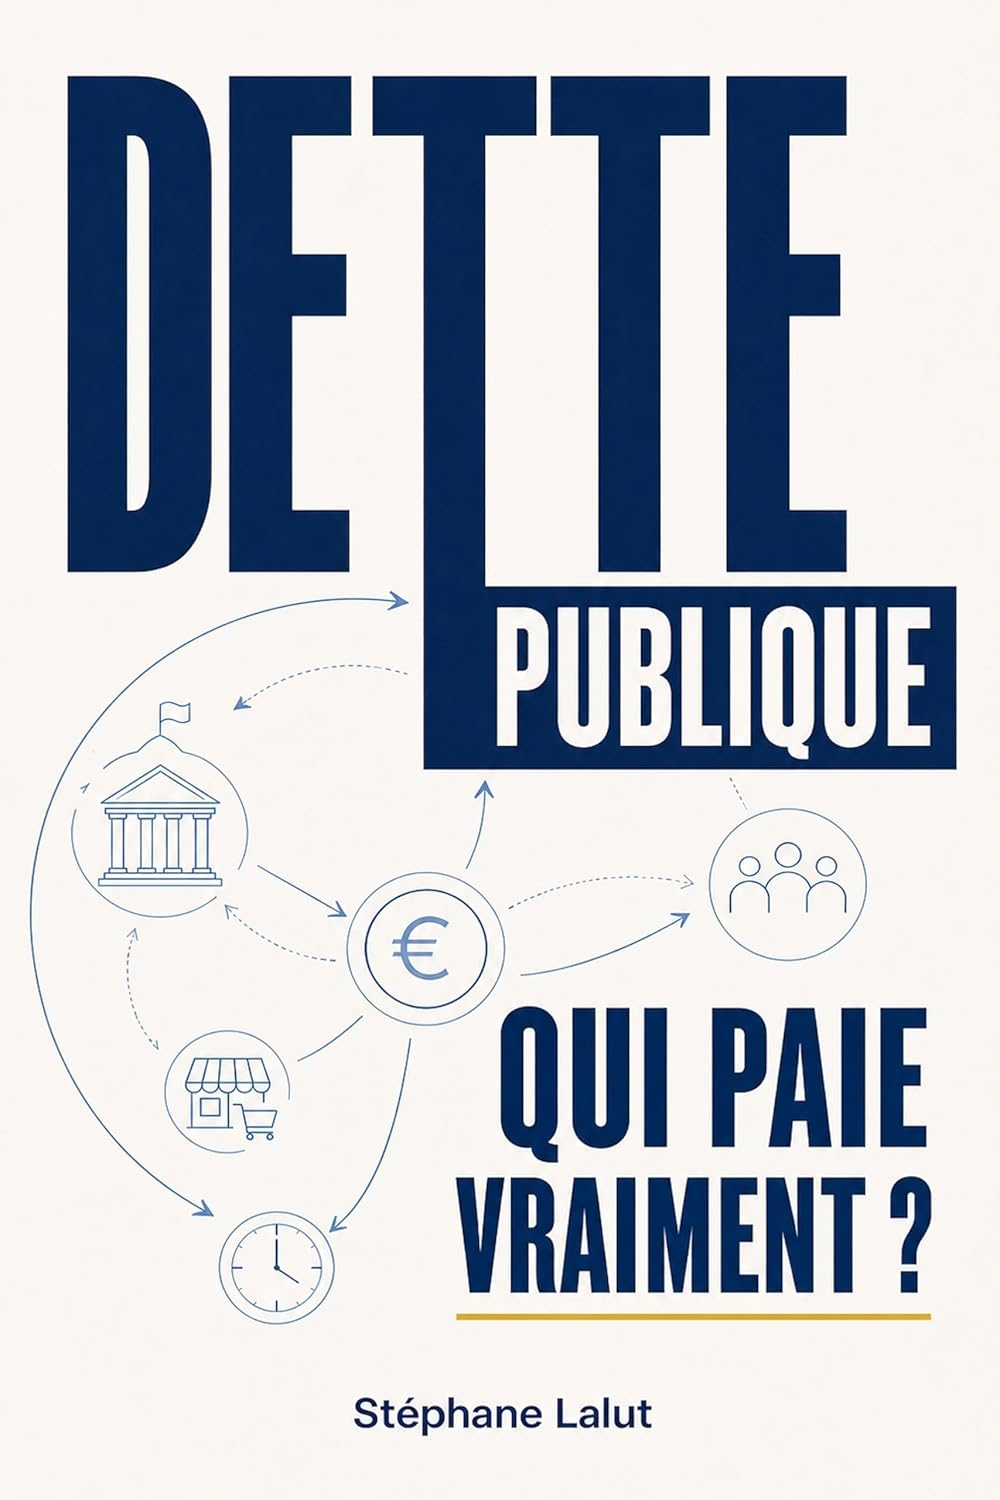
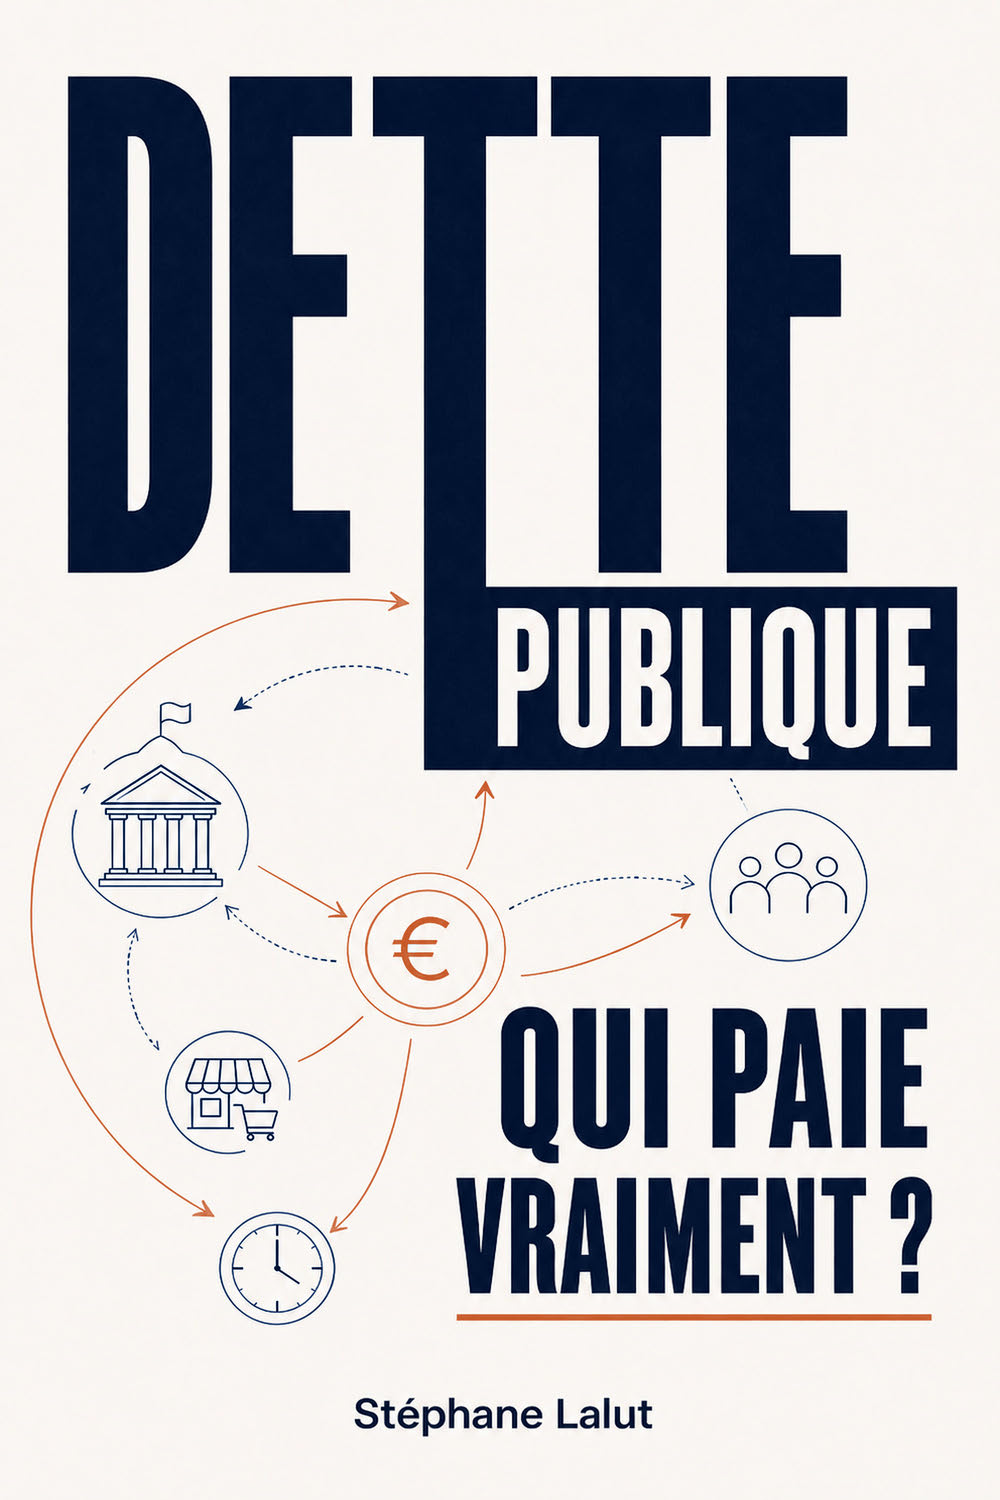
feat(livres): couverture de Dette publique au bleu nuit d'Anthropie -- et le DOI propre de la recension RFSE
Couverture : assets/images/livres/dette-publique-qui-paie-vraiment.jpg = recto KDP
du 16/09 (bleu nuit #011331 mesure sur la couverture Anthropie, accent orange
#C85A2A). Meme cadrage (echelle 0,488, decalage nul, verifie contre l'ancienne
image), memes tables JPEG, progressif, chroma 4:4:4. Build Hugo --minify sans
avertissement ; variantes _hu_ renouvelees.

DOI : check-all --reseau echouait -- Cairn a attribue a la recension seule le DOI
10.3917/rfse.036.0247d (lu a la source Crossref, resout vers la page 247d).
doi_review au registre (v1.19), doi de la fiche, lecture par le sondage. Temoin
par mutation : sans la ligne, l'ecart revient. check-all --reseau : 6/6 OK.

diff --git a/scripts/sondage-noeuds-externes.py b/scripts/sondage-noeuds-externes.py
@@ -67,7 +67,8 @@ def main() -> int:
 
     # 1. Crossref, par auteur (prenom + nom : les homonymes « Lalut » sont ecartes, et dits)
     print("1. Crossref (auteur Stéphane Lalut) -> DOI d'articles au registre")
-    reg_dois = {w["doi"].lower() for w in works if w.get("doi")}
+    # doi_review : DOI propre d'une recension parue dans un bloc a DOI commun (meme logique que wikidata_review)
+    reg_dois = {w[k].lower() for w in works for k in ("doi", "doi_review") if w.get(k)}
     try:
         r = get("https://api.crossref.org/works?" + urllib.parse.urlencode({
             "query.author": "Stéphane Lalut", "rows": 50, "select": "DOI,title,container-title,author"}))

diff --git a/PROJECT_STATUS.md b/PROJECT_STATUS.md
@@ -53,6 +53,23 @@ complète fonctionne sans attendre le prochain push naturel ou le 1er du mois.
 
 ## 0. Log chronologique
 
+### 2026-09-16 — Couverture de *Dette publique* : nouvelle charte ; DOI propre de la recension RFSE
+
+**Couverture.** `assets/images/livres/dette-publique-qui-paie-vraiment.jpg` remplacée par le recto
+KDP du 16/09 (décision auteur) : bleu nuit d'ANTHROPIE `#011331` (mesuré sur sa couverture Kindle)
+et accent orange brûlé `#C85A2A` au lieu du marine et du jaune. Même cadrage que l'ancienne image
+(recto réduit à 1000×1500, vérifié : échelle 0,488, décalage nul), mêmes tables JPEG, progressif ;
+chroma 4:4:4 pour les traits orange fins (92 → 148 Ko). Une seule source sert la fiche, les
+vignettes, le mur auteur et l'image de partage : build local sans erreur, variantes `_hu_`
+renouvelées. Masters et traçabilité : `03_LIVRES\dette-publique\_INDEX.md`.
+
+**DOI.** `check-all --reseau` échouait sur un fait externe nouveau : Cairn a attribué à la recension
+Lemoine seule le DOI `10.3917/rfse.036.0247d` (lu à la source Crossref ; résout vers la page 247d).
+Écrit en retour : `doi_review` au registre (v1.19, même logique que `wikidata_review`), `doi` de la
+fiche, et lecture de `doi_review` par `sondage-noeuds-externes.py` — **témoin par mutation** : sans
+la ligne, l'écart revient ; restauration vérifiée par empreinte. ⏸ Reste externe : l'item de la
+recension seule `Q141072266` n'a toujours pas de DOI sur Wikidata (geste de navette, non fait ici).
+
 ### 2026-09-15 — Relevé post-lancement : l'instrument GEO mesurait faux depuis un mois
 
 Créneau du 15/09 (fiche `T1_SONDES_EN_2026-09-15.md`, ouvert par le déploiement France du 22/07).

diff --git a/content/publications/rfse-lemoine-chasseurs-detats.md b/content/publications/rfse-lemoine-chasseurs-detats.md
@@ -4,7 +4,7 @@ date: 2026-08-04
 revue: "Revue Française de Socio-Économie"
 source_type: "Académique"
 url_externe: "https://shs.cairn.info/revue-francaise-de-socio-economie-2026-1-page-247"
-doi: "10.3917/rfse.036.0247"
+doi: "10.3917/rfse.036.0247d"  # DOI propre de la recension (registre : doi_review) ; le DOI commun du bloc reste au registre
 wikidata_qid: "Q141072266"  # item de la recension seule (le bloc à DOI est Q140892752, au registre) — alimente sameAs de l'ItemList
 image_type: "logo"
 chapo: "Une créance argentine rachetée 177 millions de dollars, remboursée 2,4 milliards par décision d'un tribunal de Manhattan. Benjamin Lemoine démonte la fabrique juridique de cette domination : des États qui signent eux-mêmes la levée de leur immunité, et des coûts d'ajustement que les populations absorbent."
